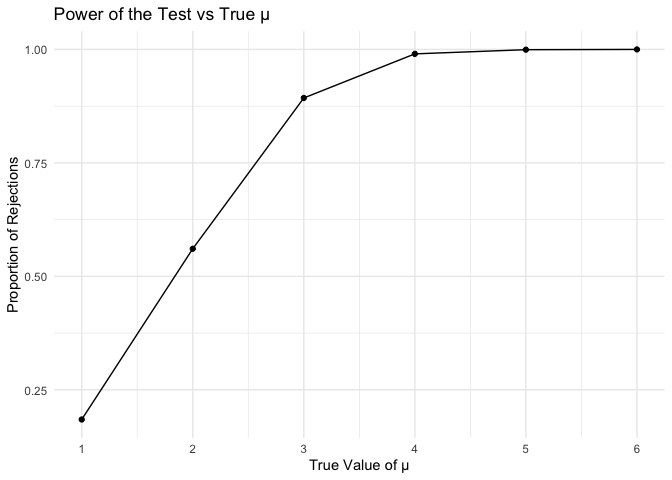
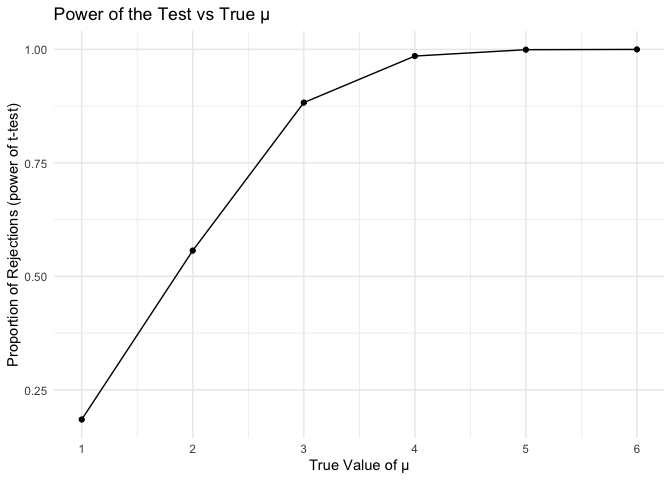
Final edit of Problem 2 and 3

diff --git a/p8105_hw5_hc3563.md b/p8105_hw5_hc3563.md
@@ -9,54 +9,56 @@ library(tidyverse)
 
 ### Problem 2
 
+#### Generate 5000 datasets from the model by setting mu = 0
+
 ``` r
 # t test for mu=0
-n = 30
-mu = 0
-sigma = 5
-alpha = 0.05
-
-results = data.frame(mu_hat = numeric(5000), p_value = numeric(5000))
-
-set.seed(42)
-for (i in 1:5000) {
-  data = rnorm(n=30, mean = mu, sd = sigma)
-  t_test = t.test(data, mu=0)
+simulate_test = function(n=30, mu = 0, sigma=5, alpha=0.05) {
   
-  tidy_test = broom::tidy(t_test)
-  results$mu_hat[i] = tidy_test$estimate
-  results$p_value[i] = tidy_test$p.value
-}
-```
-
-``` r
-# repeat test for mu = 1 to 6
-n = 30
-sigma = 5
-alpha = 0.05
-
-results <- data.frame(mu = numeric(), mu_hat = numeric(), p_value = numeric())
-
-set.seed(42)
-for (j in 1:6) {
-  mu = j
-  sub_results = data.frame(mu = j, mu_hat = numeric(5000), p_value = numeric(5000))
+  results = data.frame(mu = mu, mu_hat = numeric(5000), p_value = numeric(5000))
   
+  set.seed(42)
   for (i in 1:5000) {
-    data = rnorm(n=30, mean = mu, sd = sigma)
+    data = rnorm(n=n, mean = mu, sd = sigma)
     t_test = t.test(data, mu=0)
     
     tidy_test = broom::tidy(t_test)
-    sub_results$mu_hat[i] = tidy_test$estimate
-    sub_results$p_value[i] = tidy_test$p.value
+    results$mu_hat[i] = tidy_test$estimate
+    results$p_value[i] = tidy_test$p.value
   }
   
+  return(results)
+}
+
+simulate_test(mu = 0) |> 
+  summary() |> 
+  knitr::kable()
+```
+
+|     | mu        | mu_hat           | p_value           |
+|:----|:----------|:-----------------|:------------------|
+|     | Min. :0   | Min. :-3.45487   | Min. :0.0002909   |
+|     | 1st Qu.:0 | 1st Qu.:-0.62784 | 1st Qu.:0.2434969 |
+|     | Median :0 | Median :-0.01390 | Median :0.5002890 |
+|     | Mean :0   | Mean :-0.01691   | Mean :0.4998851   |
+|     | 3rd Qu.:0 | 3rd Qu.: 0.61252 | 3rd Qu.:0.7585125 |
+|     | Max. :0   | Max. : 3.55617   | Max. :0.9997453   |
+
+#### Repeat process by setting mu range from 1 to 6
+
+``` r
+# repeat test for mu = 1 to 6
+results = data.frame()
+for (j in 1:6) {
+  sub_results = simulate_test(mu = j)
   results = bind_rows(results, sub_results)
 }
 ```
 
+#### Draw the plot of the power and the true value mu.
+
 ``` r
-#plot the first plot
+#calculate power
 rejected_p_value = 
   results |> 
   filter(p_value < 0.05) |> 
@@ -68,16 +70,23 @@ ggplot(rejected_p_value, aes(x = mu, y = prop)) +
   geom_line() +
   geom_point() +
   scale_x_continuous(breaks = 1:6) +
-  labs(x = "True Value of μ", y = "Proportion of Rejections", 
+  labs(x = "True Value of μ", 
+       y = "Proportion of Rejections (power of t-test)", 
        title = "Power of the Test vs True μ") +
   theme_minimal()
 ```
 
 ![](p8105_hw5_hc3563_files/figure-gfm/plot_diagrams-1.png)<!-- -->
 
-From the plot above, it is clear to see that As the true μ gets larger
-(moving from 1 to 6), the effect size increases, making it easier to
-reject the null hypothesis with higher power.
+#### Comment for first plot
+
+From the plot above, it is clear to see that as the true μ gets larger
+(moving from 1 to 6), the power of t-test also increases and finally
+reach to 100%, making it easier to reject the null hypothesis with
+higher power. So true value of mu has positve association with power of
+t-test
+
+#### Plot of the average estimate of 𝜇̂ and the true value of 𝜇.
 
 ``` r
 # plot the second plot
@@ -115,19 +124,58 @@ For the tests with true value of μ are 1,2, and 3, the sample average of
 however, they are approximately equal to true μ when the value is 4,5,
 and 6.
 
-This is because we are selecting cases where is likely farther from zero
-when we only pick rejected samples. This effect causes the average among
-rejected samples to be larger than the true μ, particularly for smaller
-true values.
+Sample average of mu across tests for which the null is rejected does
+not equal to the true value of mu. This is because we are selecting
+cases where is likely farther from zero when we only pick rejected
+samples. This effect causes the average among rejected samples to be
+larger than the true μ, particularly for smaller true values.
 
 ### Problem 3
 
+#### Dataset description
+
 ``` r
+#load homicide data and tidy it
 homicide_df = 
   read_csv("./data/homicide-data.csv") |> 
   janitor::clean_names() |> 
   mutate(city_state = paste(city, state, sep=", ")) 
+```
 
+    ## Rows: 52179 Columns: 12
+    ## ── Column specification ────────────────────────────────────────────────────────
+    ## Delimiter: ","
+    ## chr (9): uid, victim_last, victim_first, victim_race, victim_age, victim_sex...
+    ## dbl (3): reported_date, lat, lon
+    ## 
+    ## ℹ Use `spec()` to retrieve the full column specification for this data.
+    ## ℹ Specify the column types or set `show_col_types = FALSE` to quiet this message.
+
+For the raw homicide data,there are 52179 rows and 13 columns. The
+dataset contains detailed information about homicide cases, including
+demographic details of the victim and geographic details of the
+incident.
+
+- uid: Unique identifier for each homicide case.
+- reported_date: The date when the homicide was reported (likely in
+  YYYYMMDD format).
+- victim_last: Last name of the victim.
+- victim_first: First name of the victim.
+- victim_race: Race of the victim (e.g., Hispanic, White).
+- victim_age: Age of the victim at the time of the incident.
+- victim_sex: Sex of the victim (e.g., Male, Female).
+- city: City where the homicide occurred (e.g., Albuquerque).
+- state: State where the homicide occurred (e.g., NM for New Mexico).
+- lat and lon: Latitude and longitude coordinates indicating the
+  location of the incident.
+- disposition: Status or outcome of the case (e.g., “Closed without
+  arrest”, “Closed by arrest”).
+
+#### Total number of homicides and the number of unsolved homicides in city
+
+##### Table for this question is combined with confidence interval down below
+
+``` r
 homicide_count = 
   homicide_df |> 
   group_by(city, disposition) |> 
@@ -142,10 +190,7 @@ homicide_count =
   select(city, total, unsolved)
 ```
 
-For the raw homicide data, it contains specific date, basic information
-of victims, and the location of homicide, finally with the disposition
-of the issue in 50 cities in U.S.. There are 52179 of issues and 13 of
-variables.
+#### Estimated proportion of homicides that are unsolved in Baltimore;
 
 ``` r
 baltimore_data = 
@@ -169,8 +214,7 @@ The estimated proportion of unsolved homicide cases in Baltimore, MD, is
 approximately 64.6%. The 95% confidence interval for this estimate
 ranges from about 62.8% to 66.3%.
 
-Below dataframe is the estimate and confidence interval for all cities,
-including total number of homicides and unsolved number of homicides:
+#### Estimate and confidence interval for all cities
 
 ``` r
 calculate_prop = function(unsolved, total) {
@@ -245,8 +289,7 @@ knitr::kable(city_proportions, digits = 3)
 | Tulsa          |   584 |      193 |                0.330 |    0.293 |     0.371 |
 | Washington     |  1345 |      589 |                0.438 |    0.411 |     0.465 |
 
-Below is the plot showing the confidence interval of proportion of
-homicide in each city:
+#### Plot showing the confidence interval of proportion of homicide in each city:
 
 ``` r
 city_proportions =
@@ -266,7 +309,7 @@ ggplot(city_proportions, aes(x = city, y = estimated_proportion)) +
     x = "City",
     y = "Estimated Proportion of Unsolved Homicides"
   ) +
-  theme_minimal()
+  theme_minimal(base_size = 12)
 ```
 
-![](p8105_hw5_hc3563_files/figure-gfm/unnamed-chunk-4-1.png)<!-- -->
+![](p8105_hw5_hc3563_files/figure-gfm/unnamed-chunk-5-1.png)<!-- -->
